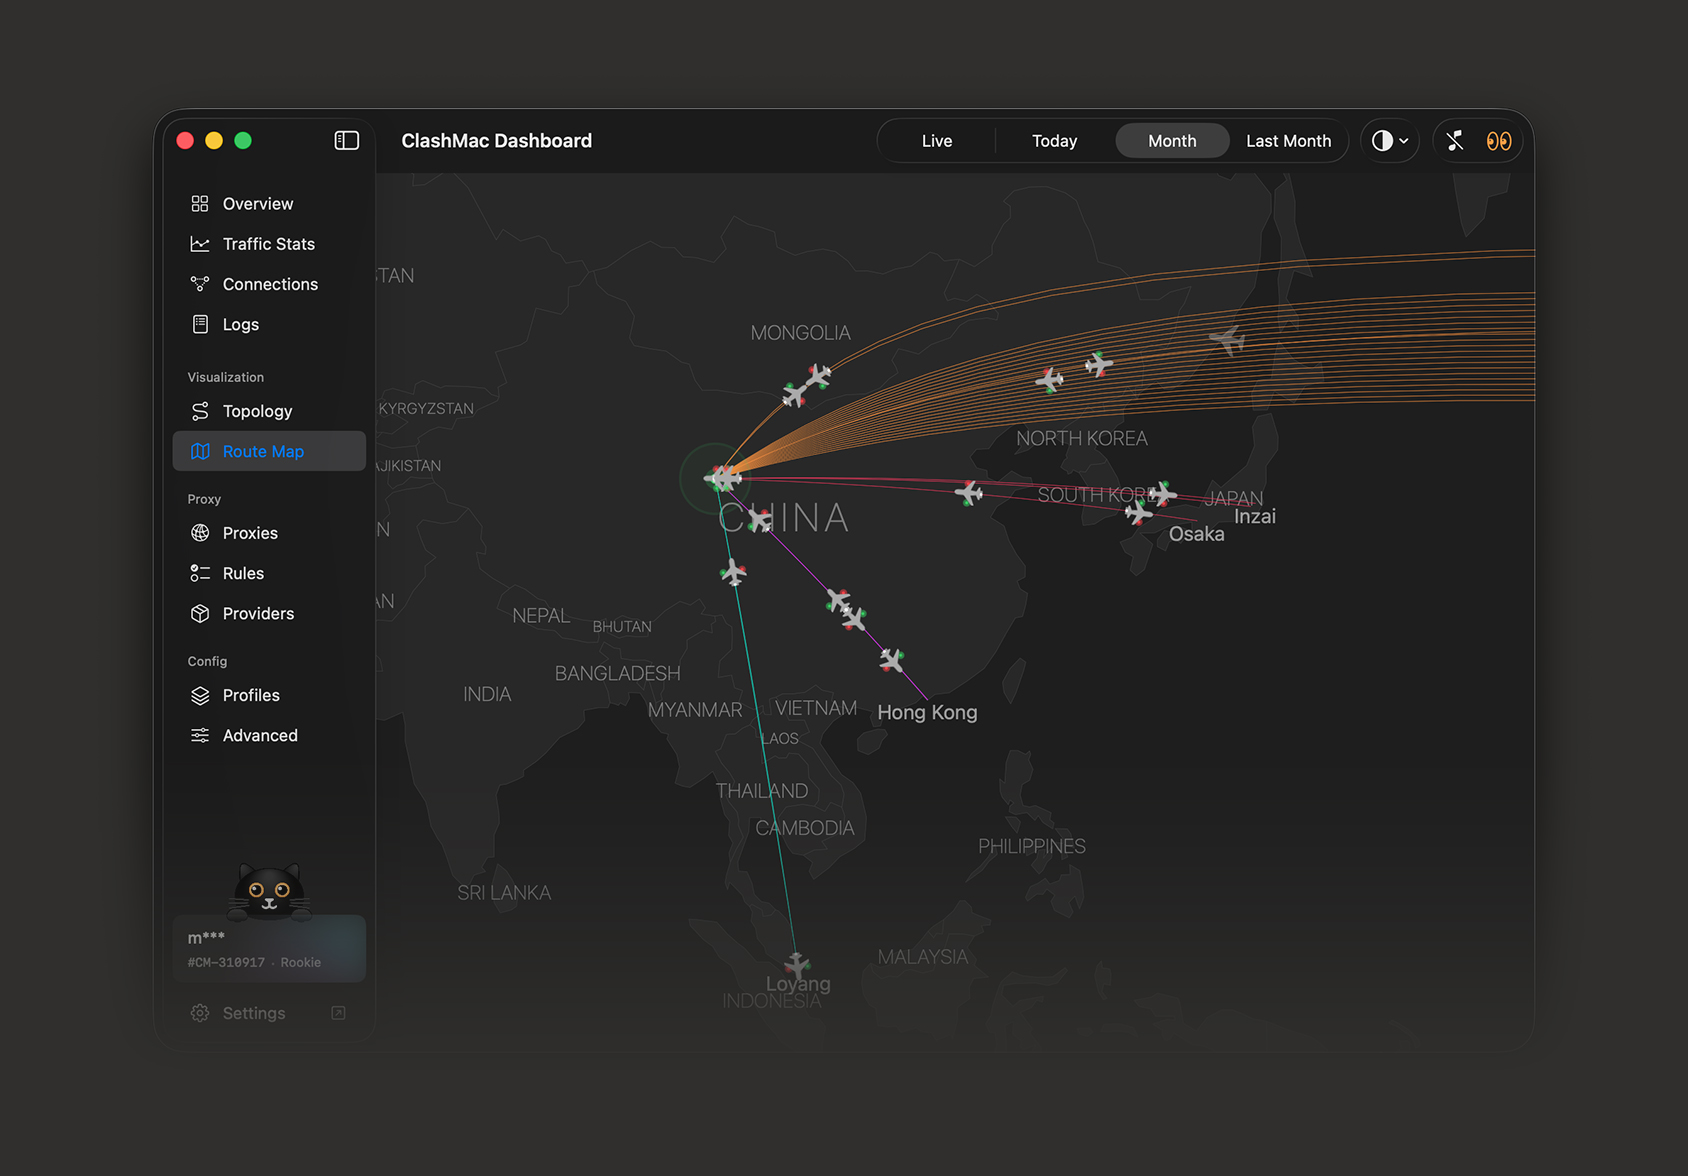
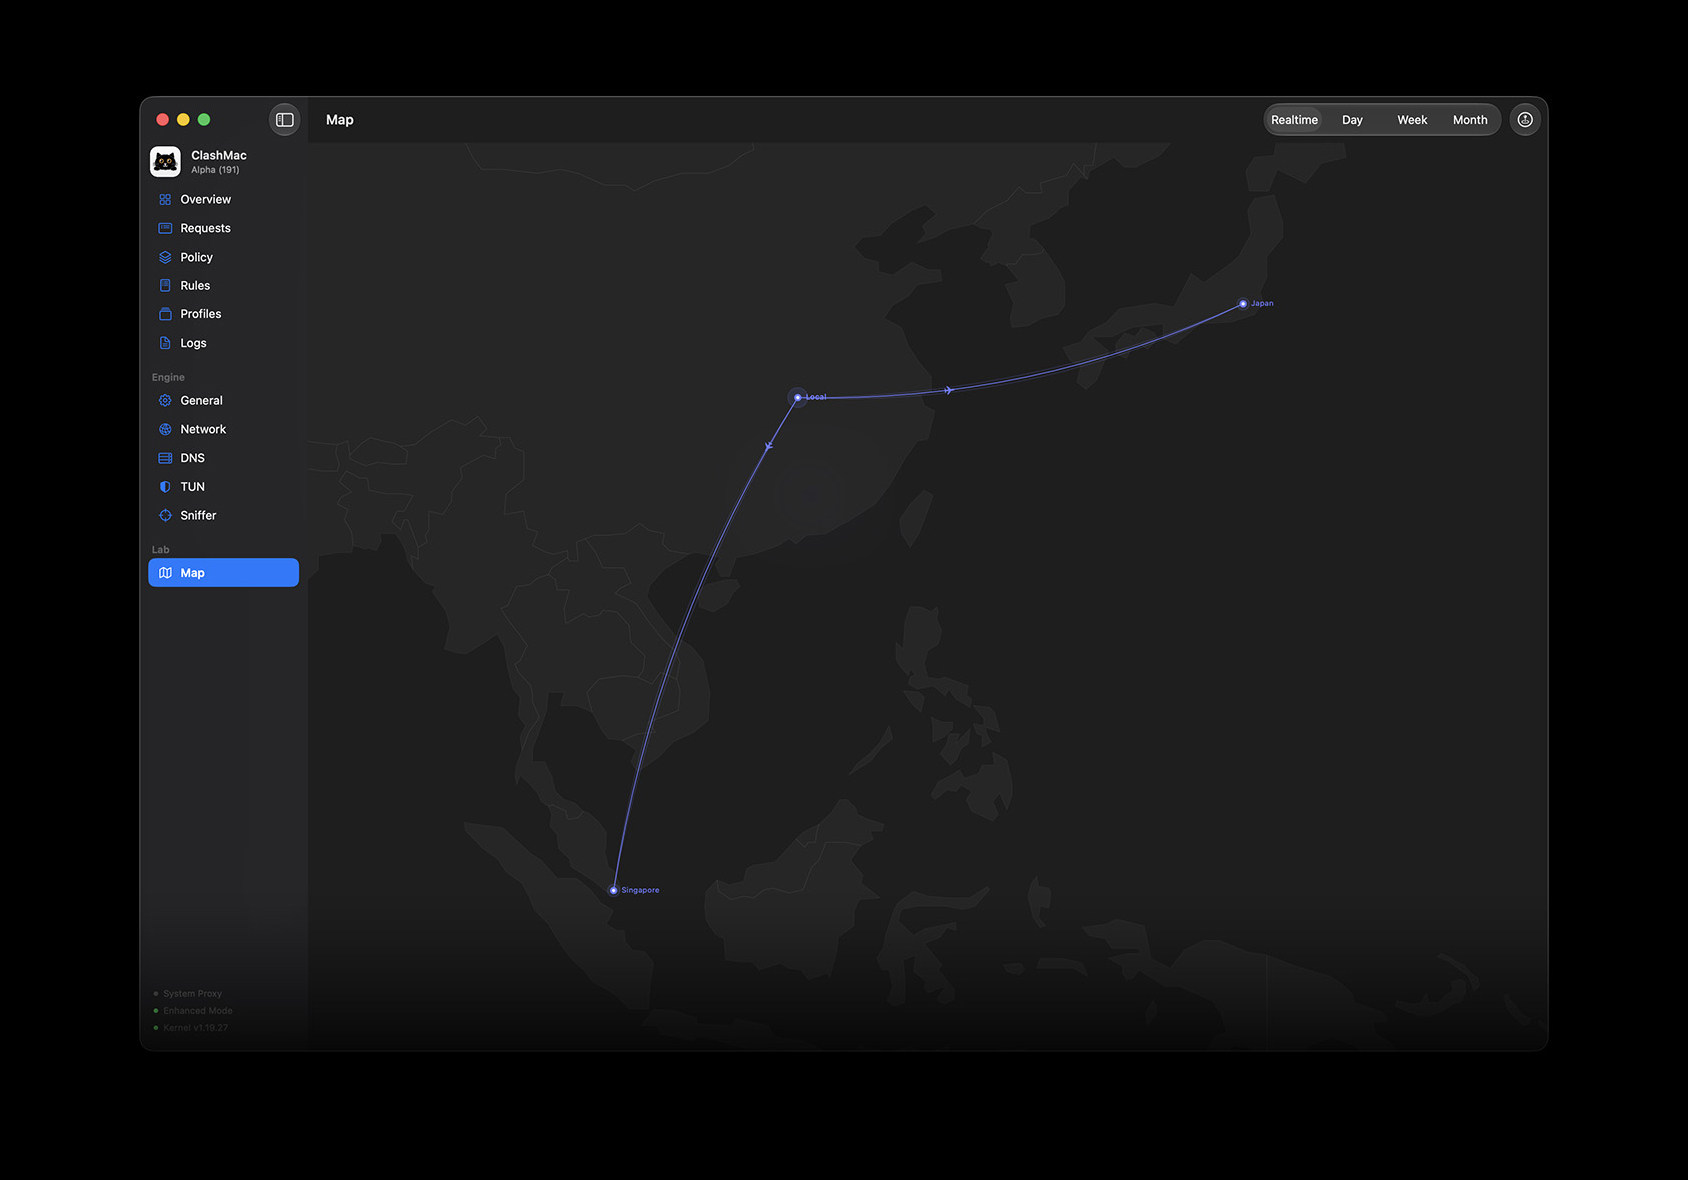
refactor: simplify README structure and update assets for ClashMac 2.0 release

diff --git a/README.md b/README.md
@@ -1,10 +1,12 @@
 <p align="center">
   <img src="assets/cat.svg" alt="ClashMac Logo" width="300">
 </p>
-<h1 align="center">ClashMac</h1>
+<h1 align="center">ClashMac 2.0</h1>
 <h3 align="center" style="margin-top: 0; margin-bottom: 10px;">Native Proxy Experience Built for macOS</h3>
 <p align="center">
-  🌐 <a href="https://clashmac.app"><strong>Official Website: clashmac.app</strong></a>
+  🌐 <a href="https://clashmac.app"><strong>Official Website</strong></a>
+  &nbsp;&nbsp;&nbsp;&nbsp;
+  📖 <a href="https://clashmac.app/guide/"><strong>User Manual</strong></a>
 </p>
 
 <p align="center" style="margin-top: 0; margin-bottom: 20px;">
@@ -37,147 +39,79 @@
   </tr>
 </table>
 
-## Core Experience
+## ✨ Features
 
-- **Route Map**: Take off from your city, arc across the globe, land at proxy nodes
-  - Multi-hop Transit: dialer-proxy chain visualization, transit flights reach further
-  - Live Flights: Every active connection is an airplane, flight status refreshes every 10s
-  - Flight Log: Live / Today / This Month / Last Month, review every flight path
-  - Global View: Scroll to zoom, drag to pan, double-click to return home
-  - Smart Viewport: Auto-adjust view when switching time dimensions, all routes in sight
-  - Continental Routes: Color-coded by destination continent, Asia/Europe/America routes at a glance
-  - Night Lights: Routes glow like city lights in dark mode
-  - Privacy Mode: 190+ cities as random departure points, only you know your location
-  - Boarding Ritual: The world is vast, we need a small ceremony
+### 🗺️ Visual Route Map
+- **Live Flight Routes**: Watch your active proxy traffic fly across the globe in real-time, updating every 10 seconds.
+- **Interactive Control**: Zoom, pan, and hover over paths for instant telemetry. Supports historical audit logs.
+- **Smart Obfuscation**: Mask your precise location by randomizing your departure point across 190+ global cities.
 
-- **Connection Topology**: Native traffic topology visualization, see where your data comes from and goes
-  - Complete Chain: Source IP → Process → Rule → Proxy → Egress, fully transparent
-  - Multi-layer Nesting: Supports nested subgroups, complex proxy structures clearly presented
-  - Smart Highlight: Hover to illuminate upstream/downstream paths instantly
-  - Hover Menu: Path hover shows statistics, popular domains aggregated
+### 🔍 Active Connections & Rules
+- **Live Traffic Grid**: Check which apps are consuming bandwidth, their speeds, protocols, and routing rules.
+- **One-Click Rule Maker**: Instantly add custom proxy or blocking rules for the active browser tab or process.
+- **Instant Cut-off**: Disconnect any hogging connection with a simple right-click.
 
-- **Traffic Statistics**: Native traffic statistics engine, track every byte precisely
-  - 4D Tracking: Statistics by Proxy/Process/Interface/Host
-  - Traffic Trends: 7-day bar chart with daily average, usage patterns at a glance
-  - Subscription Usage: Traffic progress, expiry date at a glance
-  - Rule Statistics: Visualize rule match counts, one-click reset
-
-### Native Architecture
-- **Native Built**: SwiftUI + macOS native APIs, deeply integrated with the system
-- **Dual Proxy Modes**: System Proxy + TUN Enhanced, complete traffic coverage
-- **Lightweight**: Menu bar resident, minimal memory footprint
-
-### Visual Dashboard
-- **Standalone Dashboard**: Native Dashboard app with Proxies/Rules/Connections/Logs at a glance
-- **Privacy Mode**: One-click hide sensitive info like IP/nodes, share screenshots worry-free
-
-### Proxy & Control
-- **Real-Time Stats**: Menu bar shows speed, connections, memory usage
-- **Quick Switch**: Switch nodes from menu bar/dashboard, one-click latency test
-- **Auto-Disconnect**: Auto-disconnect existing connections on node switch, traffic flows through new node immediately
-- **Global Hotkeys**: System-level shortcuts for proxy control, one-key dashboard access
-- **One-Click Rules**: Add proxy rules for current webpage, supports major browsers
-
-### Configuration
-- **Zero Config**: Auto-complete DNS/TUN/GEO parameters, ready out of the box
-- **Subscription Management**: Remote config import, auto-update, smart naming
-- **Drag & Drop**: Drop YAML config, auto-switch and apply
-- **Config Pre-Check**: Auto-validate before import, pinpoint errors precisely
-- **Parameter Override**: Unified config across subscriptions, no file modification
-- **Video Boost**: Disable overseas QUIC, say goodbye to YouTube buffering
-
-### System & Experience
-- **Crash Diagnosis**: Auto-identify issues, provide solutions
-- **Customizable UI**: Show/hide menu items, create your own layout
-- **Bilingual**: Auto-switch between English and Chinese
-- **Password-Free**: Privileged helper handles auth, no password prompts
-
-## System Requirements
-
-**Minimum Version**: macOS 13.5+
-
-## Download
-
-Download the latest version from the [Releases page](https://github.com/666OS/ClashMac/releases/latest):
-
-- **Apple Silicon (M1/M2/M3/M4)**: `ClashMac-v*-macos-arm64.zip`
-- **Intel Mac**: `ClashMac-v*-macos-x86_64.zip`
-
-**Compatible Configuration**: Please refer to [Test Configurations](https://github.com/666OS/YYDS/tree/main/mihomo/config)
-
-**Installation Steps**:
-1. Unzip the downloaded zip file
-2. Drag `ClashMac.app` to the "Applications" folder
-3. On first launch, right-click and select "Open" (to bypass security check)
-
-**Tip**: Not sure which Mac you have? Click the  menu at the top left → About This Mac, and check the "Chip" information.
-
-> **Note: Mac Gatekeeper may block unsigned applications**
-
-### Solutions
-
-#### Method 1: Allow in System Settings
-1. Try to open ClashMac, click "Done" when the security warning appears
-2. Open **System Settings** → **Privacy & Security**
-3. Scroll down and find the message: "ClashMac was blocked from opening"
-4. Click "Open Anyway" next to it
-5. Click "Open Anyway" again in the popup dialog
-
-#### Method 2: Remove Restrictions via Terminal
-Enter in Terminal:
-
-```bash
-xattr -cr /Applications/ClashMac.app
-```
-Press Enter and reopen the application
-
-
-#### Method 3: Remove Quarantine Attribute
-
-Enter in Terminal:
-```bash
-xattr -d com.apple.quarantine /Applications/ClashMac.app
-```
-Press Enter and reopen the application
-
-## Security Design
-
-**Privileged Helper Security Hardening**: Fixed potential command injection vulnerabilities
-
-- **Whitelist Path Validation**: Only allows kernel execution from `/Applications/ClashMac.app/`
-- **Permission Tightening**: Restricted to admin user access only
-- **POC Verified**: Attacks like `/bin/sh`, path traversal are all blocked
-
-> *"Security is a process, not a product."* — Bruce Schneier
-
-## Security & Privacy
-
-This application runs entirely locally on macOS and does not collect or upload user data.  
-
-Network access occurs only when explicitly configured by the user, or when the user manually checks for updates (downloads are served via GitHub).  
-
-The application requests only the minimum system permissions required for its functionality.  
-
-## License
-
-ClashMac is a proprietary, closed-source application.  
-Only binary releases are provided in this repository.
-
-This project uses third-party open-source components.  
-The full list of licenses is available at:
-
-[THIRD_PARTY_LICENSES](https://github.com/666OS/ClashMac/blob/main/THIRD_PARTY_LICENSES.txt) 
-
-## Acknowledgments
-
-- [mihomo](https://github.com/MetaCubeX/mihomo)
-- [Vernesong](https://github.com/vernesong/mihomo)
-- [Zashboard](https://github.com/Zephyruso/zashboard)
-
-## Star History
-[![Star History Chart](https://api.star-history.com/svg?repos=666OS/ClashMac&type=Date)](https://star-history.com/#666OS/ClashMac&Date)
+### 📊 Real-time Dashboard
+- **Speed Curves**: High-definition, smooth graph tracking upload and download bandwidth over a 60-second window.
+- **Leaderboards**: Automatically lists your most active target domains, matched rules, and destinations.
+- **Resource Monitoring**: Track system memory footprint of both the UI and the underlying network engine.
 
 ---
+
+## 🛠️ Built for macOS
+
+- **100% Native**: Built exclusively in SwiftUI for native performance. Resides quietly in the menu bar with minimal CPU and memory footprints.
+- **TUN Enhanced**: System-wide proxy integration with complete UDP/TCP capture.
+- **No Setup Needed**: Ready out of the box with automated DNS, TUN, and routing database parameters.
+- **Video Boost**: Disable QUIC protocols to prevent ISP throttling and eliminate buffering on YouTube and Netflix.
+- **No Repeated Passwords**: Authorize network helper tool installation once—never get prompted for admin passwords again.
+
+---
+
+## 💻 Get Started
+
+- **System Requirement**: macOS 15.0+ (Sequoia or later)
+
+### Installation
+1. Download the latest `ClashMac.dmg` disk image from the [Releases page](https://github.com/666OS/ClashMac/releases/latest).
+2. Double-click the `.dmg` and **drag** `ClashMac.app` into your **Applications** folder.
+   > [!CAUTION]
+   > Do not run ClashMac directly from the `.dmg` installer window, as macOS security sandbox will prevent the application from saving settings and installing system network services.
+3. On first launch, right-click `ClashMac.app` and select **Open**. ClashMac will register its system helper tool and automatically download the correct kernel engine matching your Mac's CPU architecture (Apple Silicon or Intel).
+
+---
+
+## 🛡️ Bypassing Gatekeeper
+
+If macOS blocks launching with a warning (e.g., "developer cannot be verified"), use one of these solutions:
+
+- **System Settings**: Go to **System Settings** $\rightarrow$ **Privacy & Security**, scroll down to find the block notice, and click **Open Anyway**.
+- **Terminal Command**: Run the following command in Terminal to clear the quarantine flag:
+  ```bash
+  sudo xattr -rd com.apple.quarantine /Applications/ClashMac.app
+  ```
+
+---
+
+## 🔒 Security & Privacy
+
+- **100% Local**: All settings, traffic details, and history stay locally on your Mac. No data collection, tracking, or logs.
+- **Secure Helper**: The background system helper is hardened and restricted to run core files solely from `/Applications/ClashMac.app/`.
+
+---
+
+## 📄 License & Credits
+
+ClashMac is proprietary, closed-source software. Binary releases are provided in this repository.
+
+View third-party credits and licenses here:  
+👉 [THIRD_PARTY_LICENSES](https://github.com/666OS/ClashMac/blob/main/THIRD_PARTY_LICENSES.txt)
+
+---
+
+## Star History
+
+[![Star History Chart](https://api.star-history.com/svg?repos=666OS/ClashMac&type=Date)](https://star-history.com/#666OS/ClashMac&Date)
 
 <p align="center">
   Crafted with ❤️ for macOS